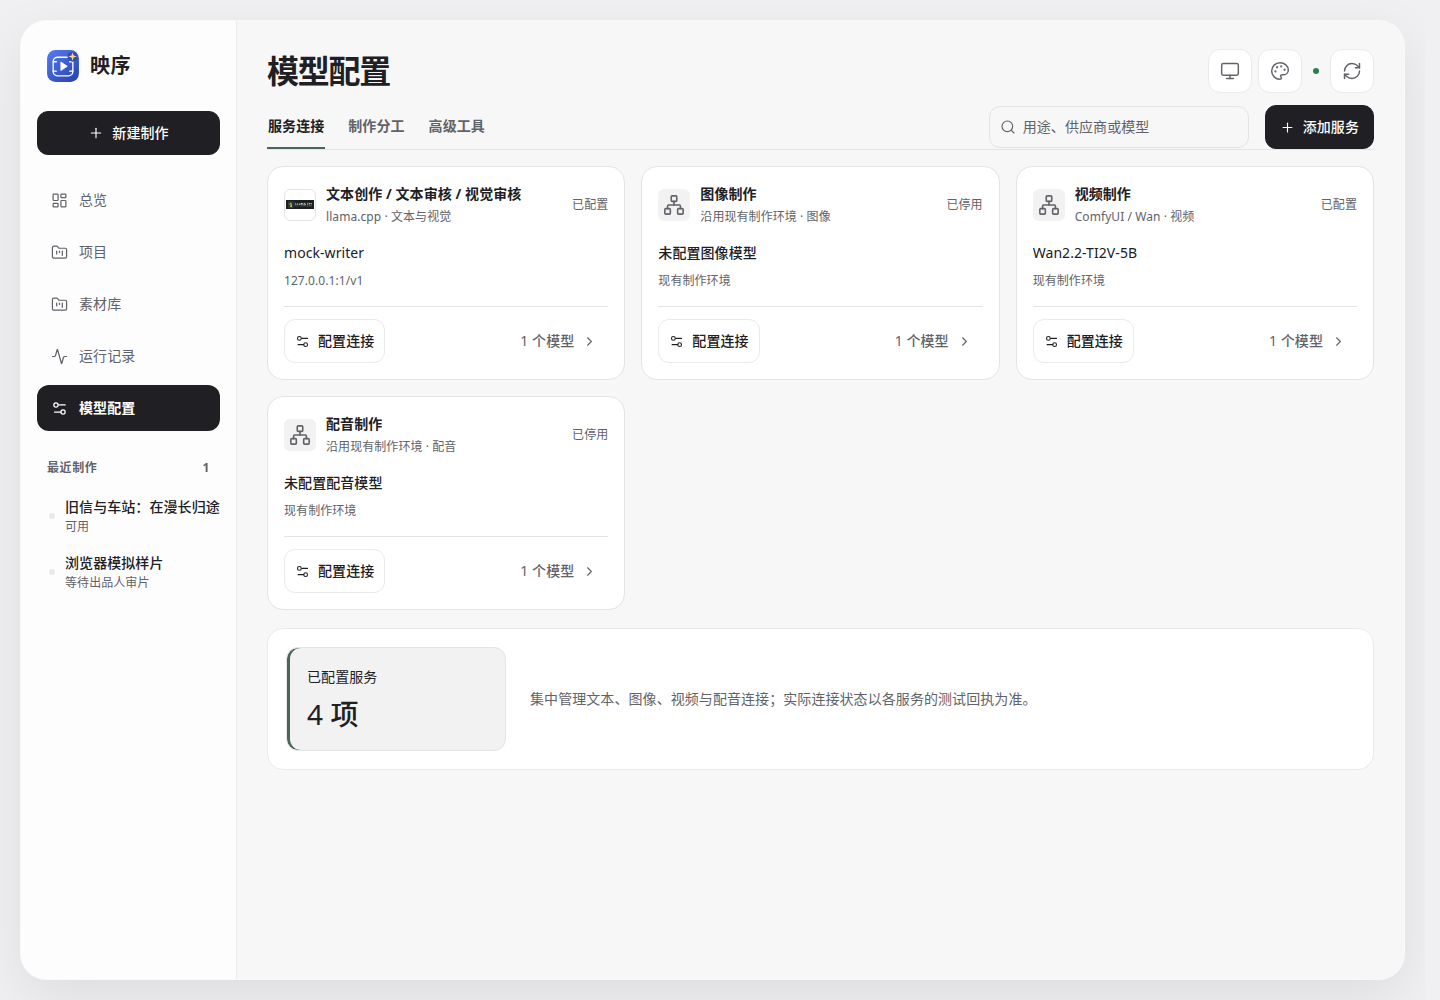
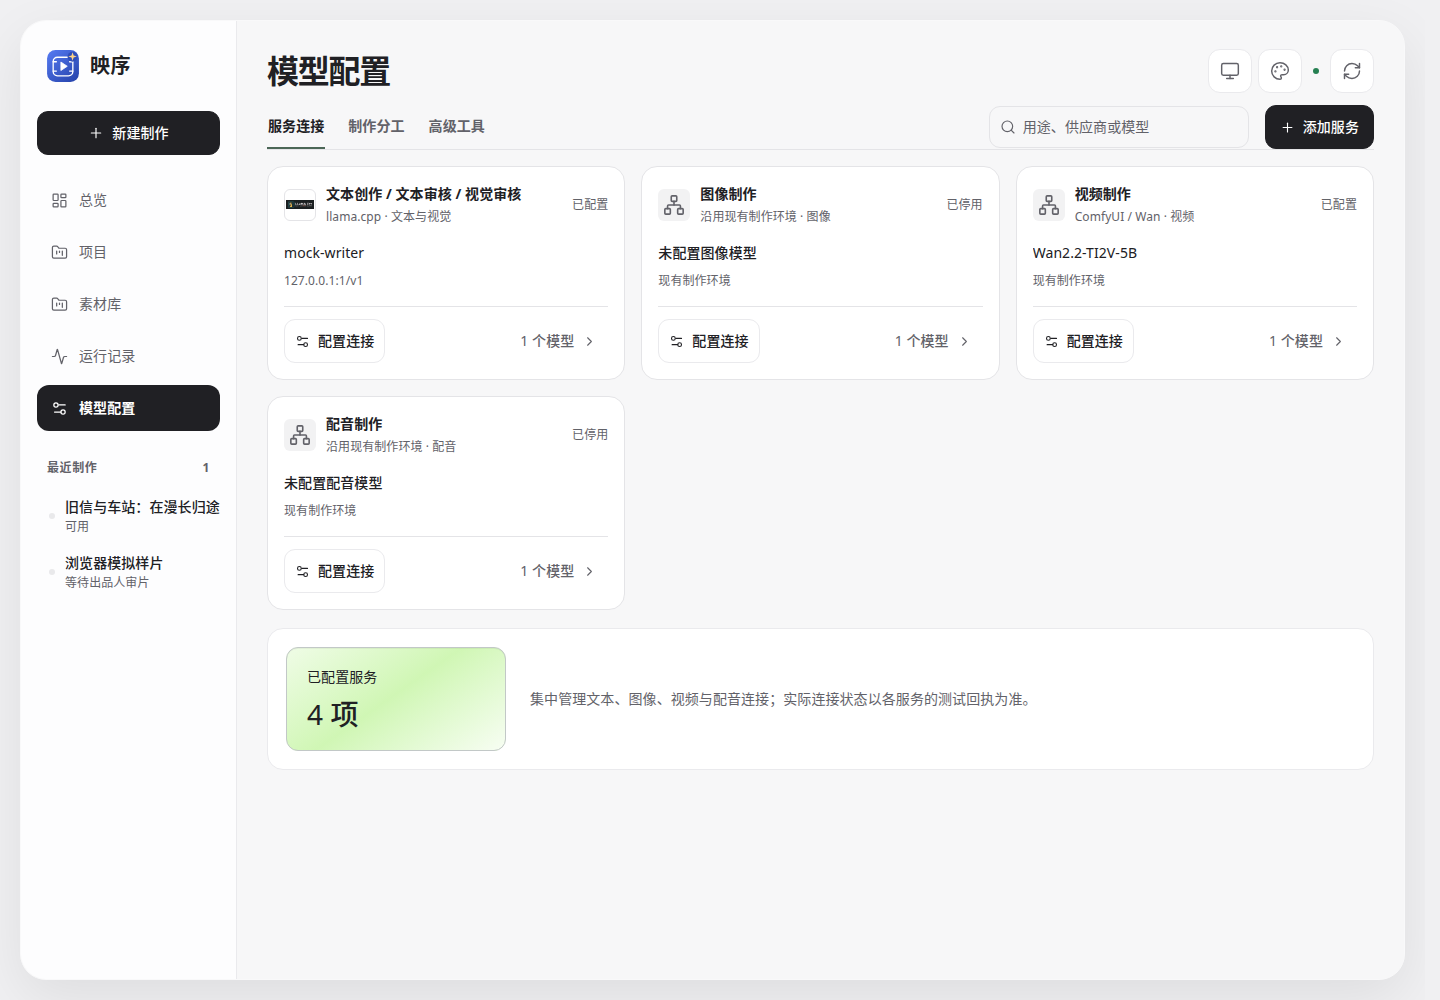
fix(ui): restore layered theme colors that adapt to light and dark

Changed region(s): [[0.1875, 0.62, 0.375, 0.775]]

diff --git a/ui/factory/src/styles/accents.css b/ui/factory/src/styles/accents.css
@@ -1,8 +1,18 @@
-/* Accent roles: readable small marks and focus; gradients are only settings swatches.
+/* Accent roles: layered theme features adapt to the current surface; reading stays neutral.
    Primary actions stay neutral black/white, independent of the selected hue.
    Neutrals and semantic error / warning / success colors remain in tokens.css. */
 :root[data-accent] {
   --accent-gradient: linear-gradient(145deg, var(--accent-glow) 0%, var(--accent-feature) 48%, var(--accent-mist) 100%);
+  --feature-strength: 54%;
+  --feature-glow-strength: 18%;
+  --feature-mist-strength: 9%;
+  --feature-glow: color-mix(in srgb, var(--accent-feature) var(--feature-glow-strength), var(--panel));
+  --feature-color: color-mix(in srgb, var(--accent-feature) var(--feature-strength), var(--panel));
+  --feature-mist: color-mix(in srgb, var(--accent-feature) var(--feature-mist-strength), var(--panel));
+  --feature-gradient: linear-gradient(145deg, var(--feature-glow) 0%, var(--feature-color) 48%, var(--feature-mist) 100%);
+  --feature-ink: var(--ink);
+  --feature-border: color-mix(in srgb, var(--accent) 22%, var(--line));
+  --feature-sheen: color-mix(in srgb, var(--ink) 5%, transparent);
   --primary: var(--ink);
   --primary-hover: var(--inverse);
   --on-primary: var(--panel);
@@ -141,4 +151,19 @@
   --selection: #44392f;
   --on-accent: #14191f;
   --crop-fill: rgb(181 157 136 / 18%);
+}
+
+/* Dark features keep the chosen hue while matching the surrounding luminance. */
+:root[data-theme="dark"][data-accent] {
+  --feature-strength: 20%;
+  --feature-glow-strength: 8%;
+  --feature-mist-strength: 6%;
+}
+
+/* Recompute derived colors on the card so the hero can use a stronger tint. */
+.dashboard-focus-feature,
+.page-color-focus,
+.appearance-preview-feature {
+  --feature-color: color-mix(in srgb, var(--accent-feature) var(--feature-strength), var(--panel));
+  --feature-gradient: linear-gradient(145deg, var(--feature-glow) 0%, var(--feature-color) 48%, var(--feature-mist) 100%);
 }

diff --git a/ui/factory/src/styles/studio-design.css b/ui/factory/src/styles/studio-design.css
@@ -234,10 +234,11 @@ tbody tr:hover {
   min-width: 0;
   padding: 22px;
   border-radius: 16px;
-  background: var(--surface);
-  border: 1px solid var(--line);
-  box-shadow: inset 3px 0 var(--accent);
-  color: var(--ink);
+  background-color: var(--feature-color);
+  background-image: var(--feature-gradient);
+  border: 1px solid var(--feature-border);
+  box-shadow: inset 0 1px 0 var(--feature-sheen);
+  color: var(--feature-ink);
 }
 .focus-feature-head {
   display: flex;
@@ -463,10 +464,11 @@ tbody tr:hover {
   min-width: 0;
   padding: 18px 20px;
   border-radius: 12px;
-  background: var(--surface);
-  border: 1px solid var(--line);
-  box-shadow: inset 3px 0 var(--accent);
-  color: var(--ink);
+  background-color: var(--feature-color);
+  background-image: var(--feature-gradient);
+  border: 1px solid var(--feature-border);
+  box-shadow: inset 0 1px 0 var(--feature-sheen);
+  color: var(--feature-ink);
   overflow-wrap: anywhere;
 }
 .page-color-focus > span,
@@ -526,4 +528,12 @@ tbody tr:hover {
 .project-context > article.page-color-focus > small {
   font-size: var(--text-caption);
   line-height: var(--leading-caption);
+}
+
+/* The current production is the visual focus; repeated summaries stay softer. */
+.dashboard-focus-feature {
+  --feature-strength: 68%;
+}
+:root[data-theme="dark"] .dashboard-focus-feature {
+  --feature-strength: 28%;
 }

diff --git a/ui/factory/src/appearance-settings.css b/ui/factory/src/appearance-settings.css
@@ -134,7 +134,7 @@
   }
 }
 
-/* Business highlights share system surfaces; theme color stays on a narrow edge. */
+/* Theme features blend into the active light/dark surface with a colored middle. */
 .appearance-preview-feature {
   display: flex;
   flex-direction: column;
@@ -142,10 +142,11 @@
   padding: 20px;
   margin-bottom: 16px;
   border-radius: var(--radius);
-  background: var(--surface);
-  border: 1px solid var(--line);
-  box-shadow: inset 3px 0 var(--accent);
-  color: var(--ink);
+  background-color: var(--feature-color);
+  background-image: var(--feature-gradient);
+  border: 1px solid var(--feature-border);
+  box-shadow: inset 0 1px 0 var(--feature-sheen);
+  color: var(--feature-ink);
 }
 .appearance-preview-feature strong {
   font-size: var(--text-section);

diff --git a/tests/ui/palettes.test.ts b/tests/ui/palettes.test.ts
@@ -79,6 +79,9 @@ for (const palette of ACCENT_PALETTES) {
 
 it("only overrides accent roles, leaving neutral surfaces and semantic statuses unchanged", () => {
   const allowed = new Set([
+    "feature-strength", "feature-glow-strength", "feature-mist-strength",
+    "feature-glow", "feature-color", "feature-mist", "feature-gradient",
+    "feature-ink", "feature-border", "feature-sheen",
     "primary",
     "primary-hover",
     "focus",

diff --git a/docs/UI_DESIGN.md b/docs/UI_DESIGN.md
@@ -1,12 +1,12 @@
 # 工作台 UI 设计与兼容约定
 
-工作台采用大面积白黑中性色、小面积的可选主题色和少量必要语义色。该约定覆盖全局视图、项目页面、共享弹窗及明暗主题；整剧流程与自动返修规则见[整剧制作](DRAMA_PRODUCTION.md)。
+工作台采用大面积白黑中性色、有层次的可选主题色和少量必要语义色。该约定覆盖全局视图、项目页面、共享弹窗及明暗主题；整剧流程与自动返修规则见[整剧制作](DRAMA_PRODUCTION.md)。
 
 ## 视觉与交互
 
-- 白黑及中性灰用于页面、面板、大卡片、正文、主按钮及全局导航；主题色用于进展卡的窄边标记，并在项目内选中项、焦点和进度上少量呼应。失败/紧急用红，待处理问题用黄，通过用绿，限于有意义的标签、图标、细边和局部提示，不铺满大卡片。中性与语义颜色由`styles/tokens.css`定义，主题色由`styles/accents.css`覆盖，并配合文字标明状态；明暗主题正文和按钮满足AA对比度。供应商官方Logo与实际素材保持原色。
+- 白黑及中性灰用于页面、面板、大卡片、正文、主按钮及全局导航；主题色用于重点进展卡与柔和统计卡，并在项目内选中项、焦点和进度上少量呼应。失败/紧急用红，待处理问题用黄，通过用绿，限于有意义的标签、图标、细边和局部提示，不铺满大卡片。中性与语义颜色由`styles/tokens.css`定义，主题色由`styles/accents.css`覆盖，并配合文字标明状态；明暗主题正文和按钮满足AA对比度。供应商官方Logo与实际素材保持原色。
 - 品牌统一使用 README 已有的[电影画框与金色星芒 Logo](assets/logo.svg)，保留原图形与原色。`ui/factory/public/brand.svg`是该资产的完整副本，单测校验逐字一致；更新原资产时同步复制，侧栏`BrandMark`与浏览器图标均引用该副本。移除英文装饰副标题、侧栏重复底座和宣传页脚；流程阶段显示中文，保留影响操作的预算、审核问题、来源和版本提示。
-- 每页保留一个主标题和明确操作区，移除英文装饰标题与无功能头像。总览、表单与数据摘要共用系统灰阶面板，以底色层级、字号与细边区分重点；业务卡片不使用彩色渐变或大片浅亮底色。相同信息不在概览重复堆叠；详情通过分组或展开查看。
+- 每页保留一个主标题和明确操作区，移除英文装饰标题与无功能头像。总览与数据摘要保留主题色层次：当前进展卡较鲜明，重复统计卡更柔和，普通表单和阅读面板保持中性。渐变与当前明暗面板融合，避免深色界面出现浅亮色块，也不把重点全部改成灰底细边。相同信息不在概览重复堆叠；详情通过分组或展开查看。
 - 主题按钮以显示器、太阳、月亮表示当前偏好，按 system → light → dark → system 循环。悬停和聚焦说明当前与下一模式；原 `studio.theme` 值、系统变化跟随与跨标签同步保留。存储不可用时仍支持本次会话切换，初始化脚本在样式渲染前应用主题。
 - 正常同步状态为小型指示，异常保留明确文字；图标操作提供可访问名称，所有业务决定保留文字、确认与版本检查。项目状态入口常驻标题旁，长期问题按需打开详情抽屉；请求失败与临时反馈使用固定通知区域，不插入导航上方。表单保留就近错误和草稿，长错误可查看详情。
 
@@ -21,17 +21,17 @@
 | 画布、容器、内容三级 | 浅灰外底、浮动圆角工作区、白色内容卡 | 桌面圆角外框、轻边与低阴影，统一16px内容卡；手机使用全宽空间 |
 | 视觉权重分配 | 标题、主数据、辅助文字有明显尺寸差 | 当前项目标题优先，四项真实制作指标用大数字，事件和资源作为次级内容 |
 | 同组靠近、同类一致 | 模块对齐，卡片间距与内边距有规律 | 统一间距与控件圆角，任务与待办组成主区域，动态与资源置于其后；项目、模型与流程共用面板语言 |
-| 颜色面积与职责 | 黑白承担大面积信息，绿色卡片从浅色经过较浓的局部色彩，再柔和过渡到浅色，形成中等面积视觉重心，语义色占少量 | 阅读、导航、主按钮与进展卡使用系统中性色；所选主题色只用于窄边、选中和进度的小面积提示；语义红黄绿只用于实际状态 |
+| 颜色面积与职责 | 黑白承担大面积信息，绿色卡片从浅色经过较浓的局部色彩，再柔和过渡到浅色，形成中等面积视觉重心，语义色占少量 | 阅读、导航、主按钮与普通进展指标使用系统中性色；所选主题色用于限定的渐变焦点，选中和进度少量呼应；语义红黄绿只用于实际状态 |
 | 颜色服务于信息 | 绿色卡片承载业务数据，图形服务所属业务 | 主题卡显示真实当前阶段和可用的制作进度，已有首帧仅作缩略图；GPU条来自真实回执，不生成虚构曲线或节省时长 |
 | 操作与内容相连 | 焦点模块有明确出口 | 总览优先选择待处理项目，其次执行中、未完成及最近项目；“打开当前项目”进入服务端指定的待处理阶段。无项目时提供“新建一部剧” |
 
 进展主题卡在桌面位于项目说明旁，手机排在说明和操作之后；使用完整可读的实际阶段与进度，不用装饰块代替信息。项目标题完整换行，按钮保持44px触达；可选首帧缩略图加载失败时回到图标。外观是界面层更新，不改变模型、角色、审核或生成配置。
 
-实现集中在`styles/studio-design.css`，通过中性token定义边框与阅读区，通过独立主题token定义窄边标记；不引入新的设计组件依赖。关键行为和六款配色保持原检查，增加真实焦点选择、空态创建、长中文标题、灰阶主体与小面积主题标记分工、明暗及桌面/手机检查。[本轮界面与复现](images/studio-design/README.md)。
+实现集中在`styles/studio-design.css`，通过中性token定义边框与阅读区，通过独立主题token定义随明暗变化的柔和渐变；不引入新的设计组件依赖。关键行为和六款配色保持原检查，增加真实焦点选择、空态创建、长中文标题、彩色焦点与中性阅读区分工、明暗及桌面/手机检查。[本轮界面与复现](images/studio-design/README.md)。
 
 ## 外观设置
 
-页面右上角“外观设置”图标打开`#view=settings`；手机先展开“页面工具”。外观设置独立提供显示模式（跟随系统、浅色、深色）与六款主题色。点选即时应用到进展卡窄边、项目内选中项、焦点、进度和工作流选中态；主按钮与阅读区保持中性黑白；页面展示真实主题 token 的效果预览，无需保存按钮。设置页不依赖业务API可用性，也不写入模型、项目或服务器配置。
+页面右上角“外观设置”图标打开`#view=settings`；手机先展开“页面工具”。外观设置独立提供显示模式（跟随系统、浅色、深色）与六款主题色。点选即时应用到重点卡片渐变、项目内选中项、焦点、进度和工作流选中态；主按钮与阅读区保持中性黑白；页面展示真实主题 token 的效果预览，无需保存按钮。设置页不依赖业务API可用性，也不写入模型、项目或服务器配置。
 
 | 主题 | 设置色卡方向（明暗共用） | 视觉方向 |
 | --- | --- | --- |
@@ -44,11 +44,11 @@
 
 重新参考[Happy Hues 12 的灰紫与柔粉搭配](https://www.happyhues.co/palettes/12)、[Happy Hues 14 的黑白与浅青层次](https://www.happyhues.co/palettes/14)及[Radix 色阶的背景、边界与文字职责](https://www.radix-ui.com/colors/docs/palette-composition/understanding-the-scale)，结合用户参考图自行设计六组渐变，不直接套用其整页颜色或按钮颜色。
 
-业务重点卡（总览进展、共用 PageFocus、原工作台当前阶段及设置效果预览）统一使用 `--surface` 底色、`--ink` 正文、`--line` 边界，以 3px 内嵌主题细边提示重点。底色与文字随明暗模式切换，不随六款主题改成高亮彩色块；普通文字与背景保持 AA 对比度。
+业务重点卡（总览进展、共用 PageFocus、原工作台当前阶段及设置效果预览）使用与当前面板混合的主题渐变。`--feature-glow`、`--feature-color`、`--feature-mist` 从所选配色和 `--panel` 派生，保留三站不同颜色及自然过渡；文字使用 `--feature-ink`，边界与高光也随当前模式协调。
 
-渐变仅用于设置页的小尺寸色卡，帮助辨认六款偏好；`--accent-glow`、`--accent-feature`、`--accent-mist` 和原偏好 ID 保留兼容，业务卡片不消费这些渐变色。设置效果预览与真实业务页面使用同一灰阶底与主题细边。
+浅色模式：普通统计卡的中心混色比例为 54%，总览当前制作焦点为 68%，两端减弱为 18% 与 9%。深色模式使用同色系深色渐变，普通卡中心为 20%、焦点为 28%，两端为 8% 与 6%；不会把整块浅亮渐变搬入深色页面。中心比例在卡片作用域重新计算，确保焦点比重复摘要更鲜明。业务文字检查完整渐变与站间插值的 AA 对比度，渐变与周围面板的最大亮度对比控制在 3:1 内。
 
-设置中的六张色卡在小尺寸圆角矩形中展示三站配色，渐变不延伸到业务卡片。`--accent`仍使用可读的深色/浅色小面积标记，`--primary`与`--on-primary`固定引用中性前景与面板，六套偏好不影响红黄绿语义状态或README原Logo。旧六个偏好ID保持兼容，已有选择对应新的同色系设计。
+设置中的六张小色卡保留配色身份与原偏好 ID，效果预览则使用实际明暗渐变。`--accent`继续服务选中、焦点和进度，主操作及阅读面板保持中性，红黄绿语义状态和品牌、用户素材颜色不变。
 
 显示模式沿用`studio.theme`，主题色单独保存在当前浏览器的`studio.accent`，以白名单校验；无效值回到深灰蓝。偏好不跨设备同步，同源标签页通过storage事件同步。存储不可用时本次会话仍可切换；由根Provider保留会话状态，页面切换不重置。`theme-init.js`从构建静态路径在首屏加载前应用两项偏好，避免依赖React挂载后才恢复颜色。
 
@@ -56,7 +56,7 @@
 
 ## 跨页面颜色覆盖
 
-同一颜色职责应用于全部视图及桌面/手机，编辑页不为凑颜色重复插入摘要。共用`PageFocus`提供中性容器与有实际信息的灰阶重点区，摘要数据直接复用各页已有快照；阅读区、表单、主按钮维持黑白。
+同一颜色职责应用于全部视图及桌面/手机，编辑页不为凑颜色重复插入摘要。共用`PageFocus`提供中性容器与有实际信息的柔和主题重点区，摘要数据直接复用各页已有快照；阅读区、表单、主按钮维持黑白。
 
 | 页面 | 业务重点 | 阅读、编辑和选择规则 |
 | --- | --- | --- |
@@ -67,7 +67,7 @@
 | 模型配置 | 已配置的服务连接组数，不代表连接验证通过 | 服务连接与配置操作优先展示，摘要置于列表之后；制作分工、高级工具及编辑弹窗共用中性底；连接结果用真实回执的标签或细边 |
 | 整剧 | 总览展示已出片剧集数，等待验收不等于人工通过 | 规划、共享设定、剧集、批次、成果均保持中性；真实选中流程节点使用主题细边 |
 | 长剧集 | 总览的已完成制作单元数，不等于整集通过验收 | 场景/单元、长时间轴、流程、字幕、播放与验收区使用同一规则 |
-| 单元/历史短片工作台 | 原概览当前阶段区使用系统底色与主题细边 | 剧本、素材、镜头、审核/质检、团队、费用与交付页保持中性阅读与编辑，选中镜头/候选/版本用细边或下划线 |
+| 单元/历史短片工作台 | 原概览当前阶段区使用随明暗变化的柔和主题渐变 | 剧本、素材、镜头、审核/质检、团队、费用与交付页保持中性阅读与编辑，选中镜头/候选/版本用细边或下划线 |
 
 流程节点、团队任务、返修选项和镜头列表的选中态不再整卡染浅主题色；普通通知及运行中标签采用中性正文与底色，实际运行点保留主题色。等待人工处理显示黄色标记，失败显示红色标记，通过显示绿色标记；状态文字始终保留。供应商品牌与用户媒体维持原色。该规则覆盖异步加载、失败反馈、弹窗与可滚动窄屏，不修改制作/审核或模型连接配置。
 

diff --git a/docs/images/studio-design/README.md b/docs/images/studio-design/README.md
@@ -1,7 +1,7 @@
 # 参考设计落地证据
 
-默认深灰蓝`overview-{light,dark}-{1440,390}.png`及青柠绿`overview-jade-{light,dark}-{1440,390}.png`由`tests/browser/studio-design.spec.mjs`使用实际生产构建与隔离模拟API生成，展示黑白工作区与主按钮、系统灰阶进展卡与小面积主题细边、大数字指标和分组卡片。主题卡承载真实阶段与已有进度值；`focus-jade-light-1440.png`为同一测试直接截取的当前制作区域。测试使用长中文项目名，手机将进展卡排在项目说明和操作之后，完整展示信息。
+默认深灰蓝`overview-{light,dark}-{1440,390}.png`及青柠绿`overview-jade-{light,dark}-{1440,390}.png`由`tests/browser/studio-design.spec.mjs`使用实际生产构建与隔离模拟API生成，展示黑白工作区与主按钮、有层次的自适应主题进展卡、大数字指标和分组卡片。主题卡承载真实阶段与已有进度值；`focus-jade-light-1440.png`为同一测试直接截取的当前制作区域。测试使用长中文项目名，手机将进展卡排在项目说明和操作之后，完整展示信息。
 
-焦点项目、阶段及指标由测试API提供，不是生产统计，也不是模型质量或节省时间的证据。测试将最近项目与待处理项目分开，检查焦点确实指向需要处理的项目，并打开对应阶段；另覆盖空态创建、已有缩略图与404回退、六款主题、明暗及320/390/1440/1920宽度。浏览器检查黑白主体与主按钮不随主题染色，业务卡底色随明暗模式变化、主题色仅作为窄边提示、文字对比度合格，标签保留红黄绿语义。原导航、总览待办分页与模型配置验证继续保留。
+焦点项目、阶段及指标由测试API提供，不是生产统计，也不是模型质量或节省时间的证据。测试将最近项目与待处理项目分开，检查焦点确实指向需要处理的项目，并打开对应阶段；另覆盖空态创建、已有缩略图与404回退、六款主题、明暗及320/390/1440/1920宽度。浏览器检查黑白主体与主按钮不随主题染色，业务重点卡保留主题色与渐变，明暗模式分别融合周围面板，整体亮度差受控、文字对比度合格，标签保留红黄绿语义。原导航、总览待办分页与模型配置验证继续保留。
 
 复现：`npm run build`后运行`npm run test:browser -- tests/browser/studio-design.spec.mjs`。设计方法及业务映射见[界面设计](../../UI_DESIGN.md#参考图与设计模型)。用户提供的原参考图未复制入仓库；品牌沿用README已有资产。

diff --git a/docs/images/appearance/README.md b/docs/images/appearance/README.md
@@ -2,6 +2,6 @@
 
 `settings-light-1440.png`、`settings-dark-1440.png`为桌面设置页，`settings-light-390.png`、`settings-dark-390.png`为手机设置页。展示六款主题色、独立显示模式和杏桃效果预览。
 
-截图由`tests/browser/appearance-settings.spec.mjs`使用真实生产构建与隔离模拟API生成。浏览器实际点选全部六款配色，检查明暗主题、灰阶业务卡底色稳定、主题细边变化、主操作及阅读区保持黑白、中性与红黄绿语义色稳定、跨页面保持、刷新恢复、跨标签同步、键盘焦点、320px布局、首屏脚本，以及API不可用时仍能切换。测试不调用模型或写入生产数据。
+截图由`tests/browser/appearance-settings.spec.mjs`使用真实生产构建与隔离模拟API生成。浏览器实际点选全部六款配色，检查明暗主题、主题重点卡随明暗模式柔和变化、阅读区保持中性、主操作及阅读区保持黑白、中性与红黄绿语义色稳定、跨页面保持、刷新恢复、跨标签同步、键盘焦点、320px布局、首屏脚本，以及API不可用时仍能切换。测试不调用模型或写入生产数据。
 
 复现：`npm run build`后执行`npm run test:browser -- tests/browser/appearance-settings.spec.mjs`。配色来源与持久化范围见[界面设计](../../UI_DESIGN.md#外观设置)。
